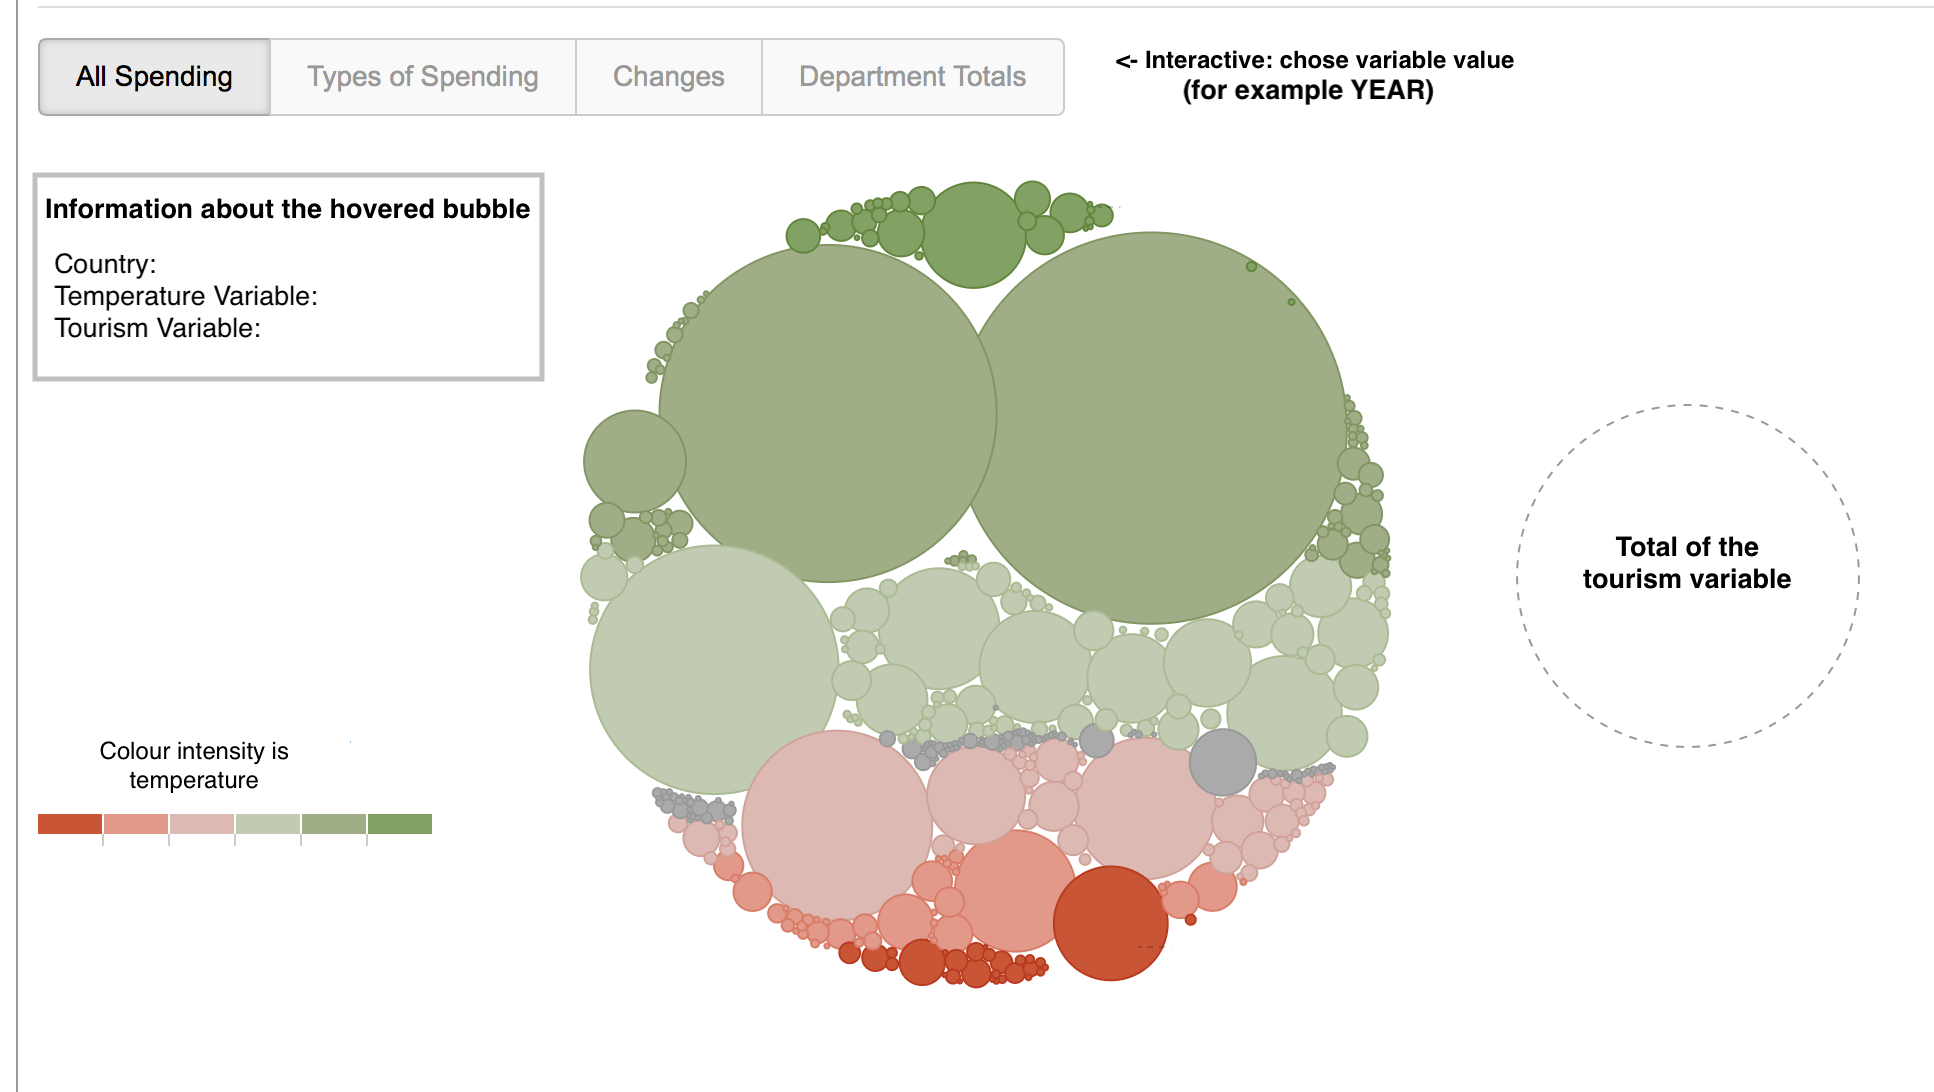
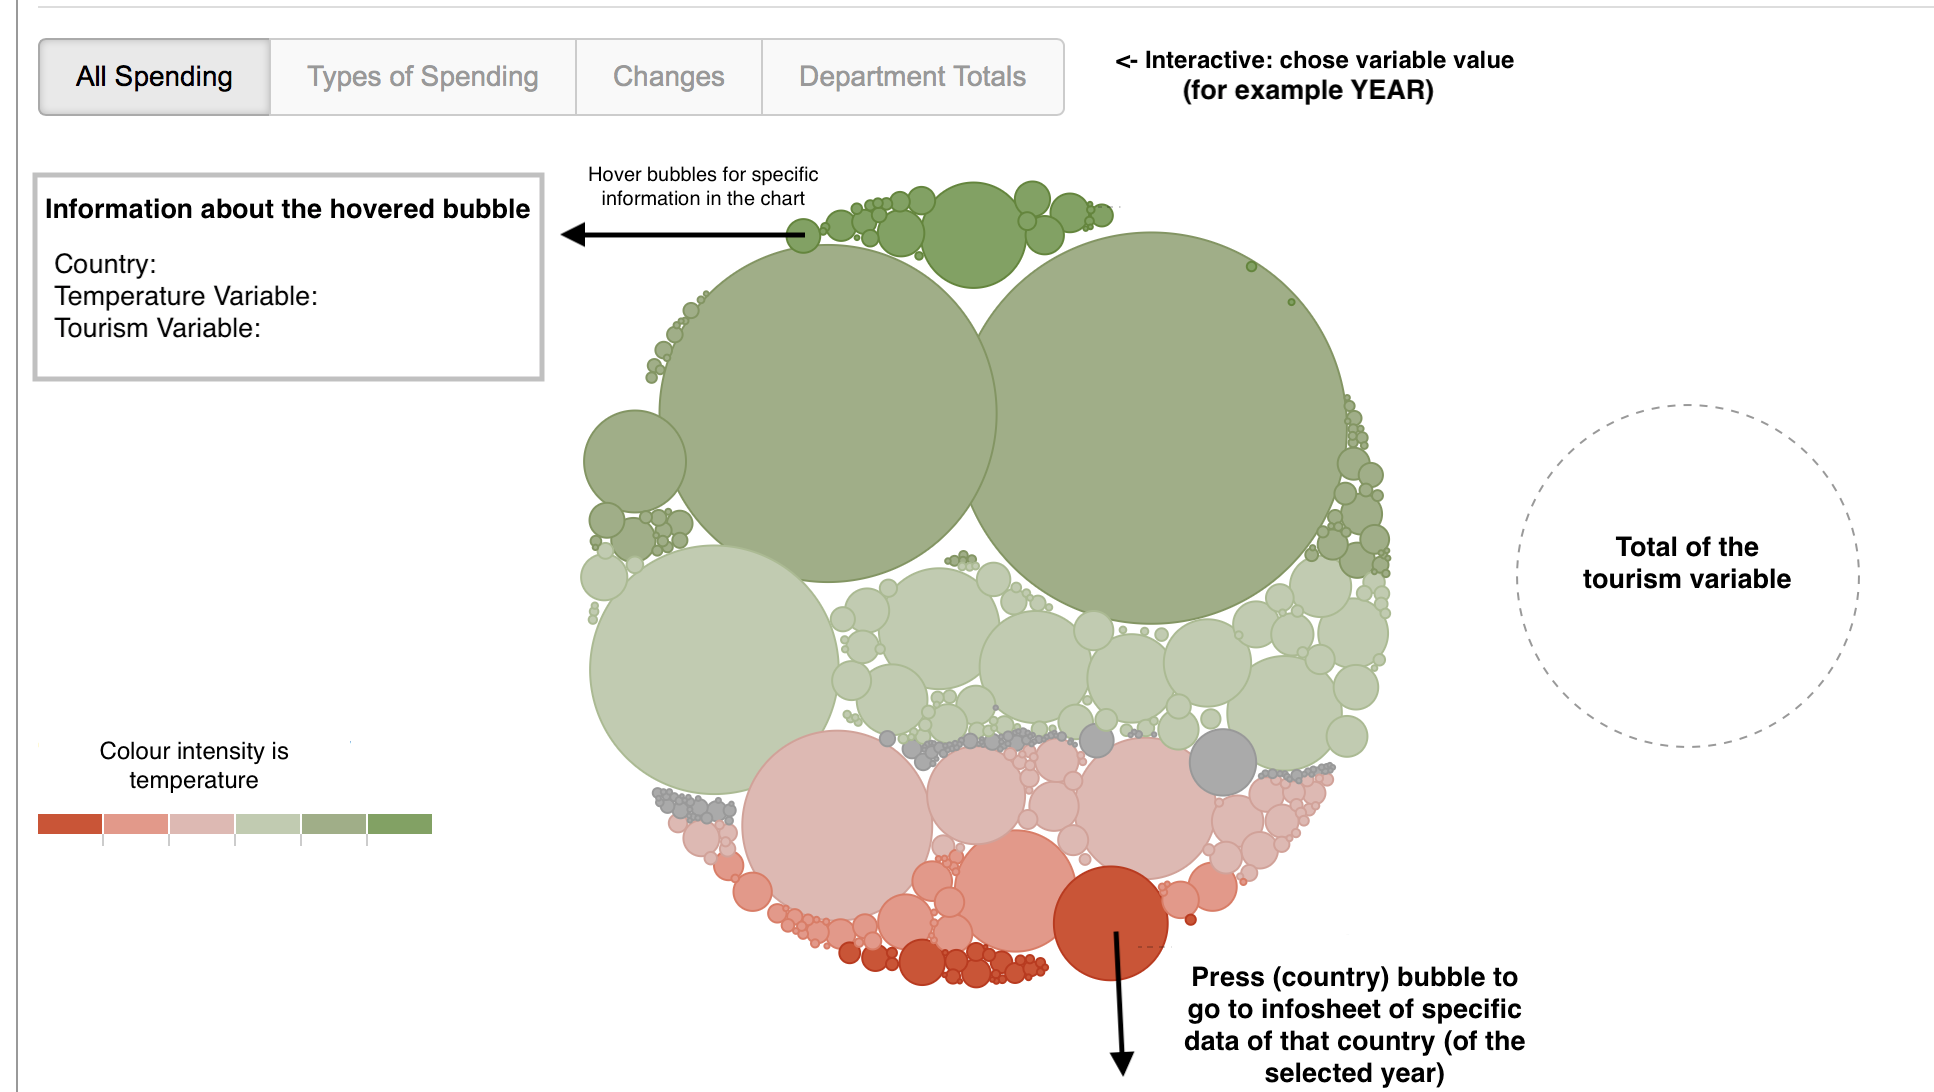
nieuwe files

Changed region(s): [[0.5584, 0.8718, 0.8066, 0.9963], [0.2792, 0.1557, 0.4343, 0.2179]]

diff --git a/code/process.py b/code/process.py
@@ -1,0 +1,3 @@
+# Sofie Löhr
+# 11038926
+

diff --git a/DESIGN.md b/DESIGN.md
@@ -1,0 +1,46 @@
+# Design Document
+#### Sofie Löhr (11038926)
+
+
+## Datasource:
+##### Climate data from: 
++ [ecad](https://www.ecad.eu/dailydata/predefinedseries.php#)
+
+##### Tourism data from:
++ [Eurostat](https://ec.europa.eu/eurostat/web/tourism/data/database)
+
+### Process the data
+First I need to process the input files from tourism and climate seperately. Then I have to combine the sets and then convert it to JSON for easy to use in javascript. This will all be done in python.
+
+##### Process tourism input files
+To process the tourism input files I have to add the country codes to the data.
+
+##### Process climate input files
+This data comes in different txt files per weather station by station ID (downloadable per temperature variable) so these have to be combined into one big file. This file will have (at least) the following variables:
++ Country
++ Weather station
++ Average temperature
++ Date
+
+To combine these seperate files I have to load all the files and combine them per country by using the stations.txt file. Also it is very important to make the dictionaries as easy to use as possible (like the average tempereture for a specific year (bubble chart) and values per month (line chart)). To make the temperature values easy to use, they have to be made into month or year values and instead of per 0.1 degree celsius, I will transfrom them in degrees celsius with 1 decimal. 
+
+## Diagram of the technical components
+In the bubble chart, the relationship between temperature and tourism will be visible. By hovering on a (country) bubble, the specifics of that country will become visible in a small infosheet. By clicking on the (country) bubble a (pop up) window will give specific information about that country in the selected year. This will be done by a piechart/barchart/linechart of the tourism variable per month. To see the temperature behaviour in the selected year I will make a line chart (Steam map) with the minimal, maximal and average temperature (by day/month) for the specific country.
+
+![sketch](doc/technical_components.png)
+
+This will be done by a piechart/barchart/linechart of the tourism variable per month. To see the temperature behaviour in the selected year I will make a line chart (Steam map) with the minimal, maximal and average temperature (by day/month) for the specific country.
+
+##### Bubble Chart
+
+
+##### Pie Chart
+
+##### Line Chart
+
+
+
+## D3 plugins
+
+
+![sketch](doc/simple_bubble_chart.png)

diff --git a/proposal.md b/proposal.md
@@ -3,6 +3,7 @@
 Chosing your holiday destination includes a lot of variables, from whom the weather expectation is one. Can you see this coherence when visualizing the data?
 
 ## Problem statement
+For countries 
 As the climate around the world is changing and tourism and climate seem highly correlated, it is good to visualize the most important weather and tourism factors side by side to see if there is a connection. Determining the effect of climate change on tourism would be something for future work, but stating the fact that there is coherence could be a good start so that is what I will do.
 
 ## Solution
@@ -15,8 +16,10 @@ This bubble chart will be interactive by chosing the YEAR.
 ![sketch](doc/bubble_chart_example.png)
 
 An additional (pop up) window when clicked on one of the (country) bubbles will have specific information about that country in the selected year. 
-+ Circle diagram with number of trips by month of departure
-+ Line chart of daily (montly) minimal and maximal temperature to show the climate over the year 
++ Line chart with dual axis (over time) of daily average temperature together with the tourism value to see the relationship over time. 
++ Circle diagram with 
+
+![sketch](doc/pop_up_window.png)
 
 ## Prerequisites
 

diff --git a/README.md b/README.md
@@ -1,3 +1,4 @@
 # Climate and tourism
 Sofie Löhr (11038926)
 
+### Link to my website

diff --git a/PROCESS.md b/PROCESS.md
@@ -1,0 +1,8 @@
+# Process
+#### Sofie Löhr (11038926)
+
+### Day 1
+
+
+### Day 2
+
